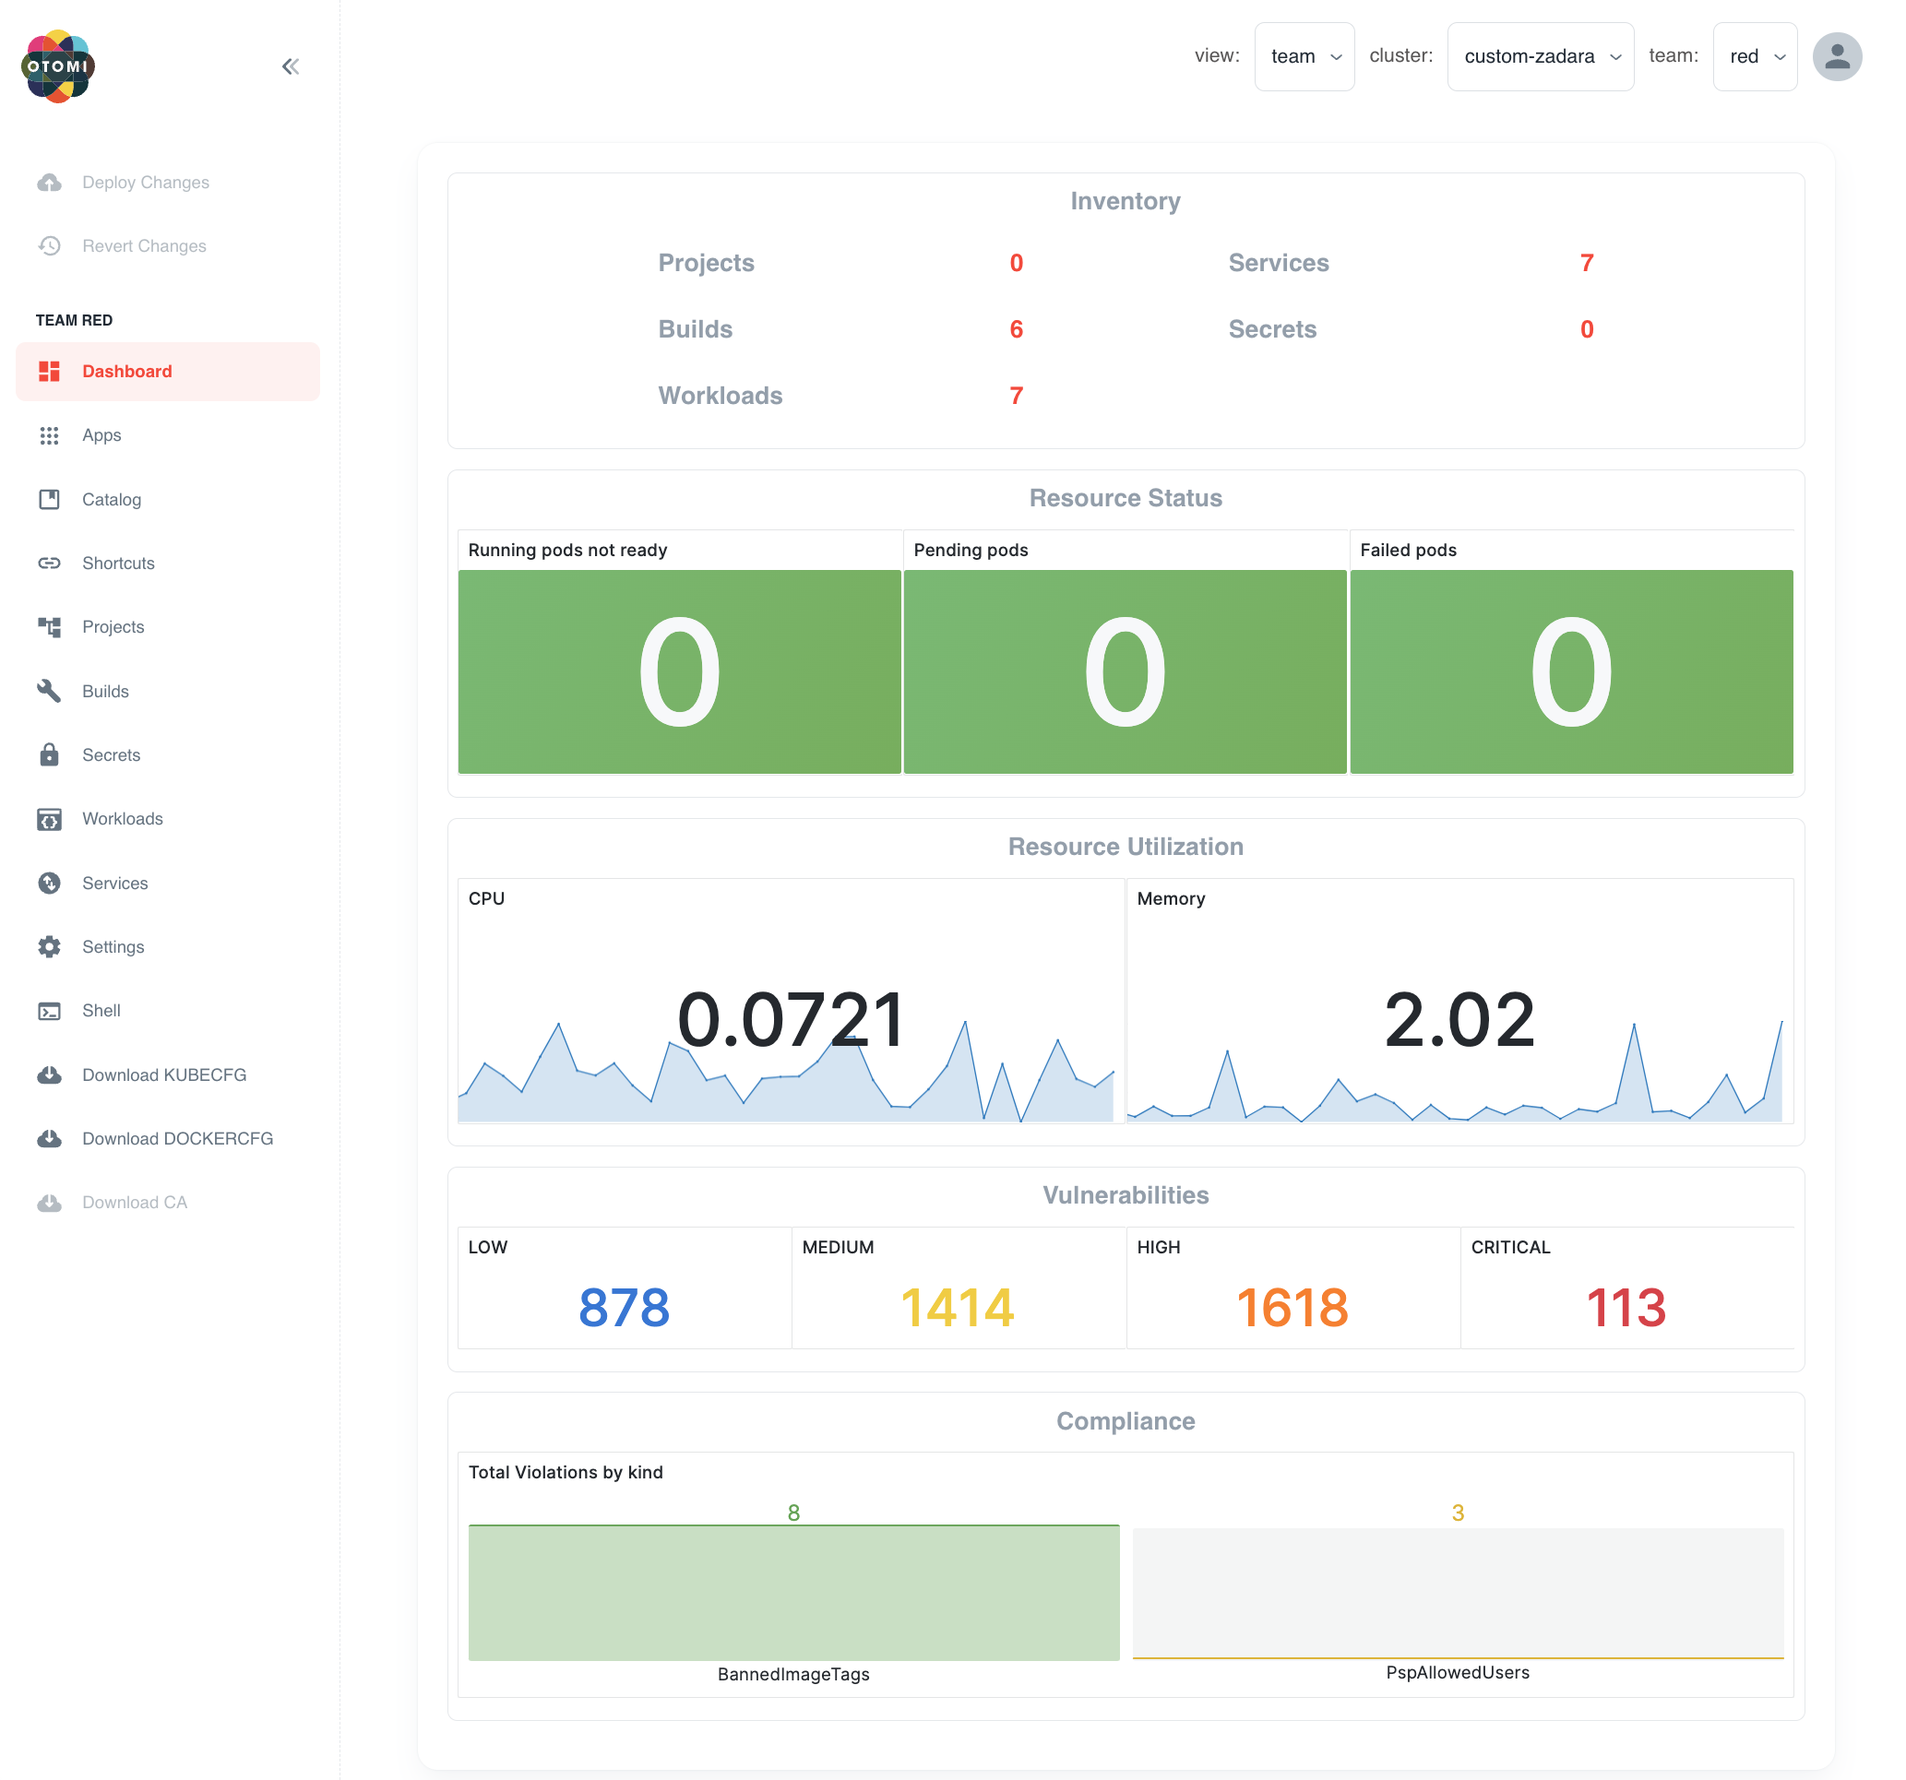
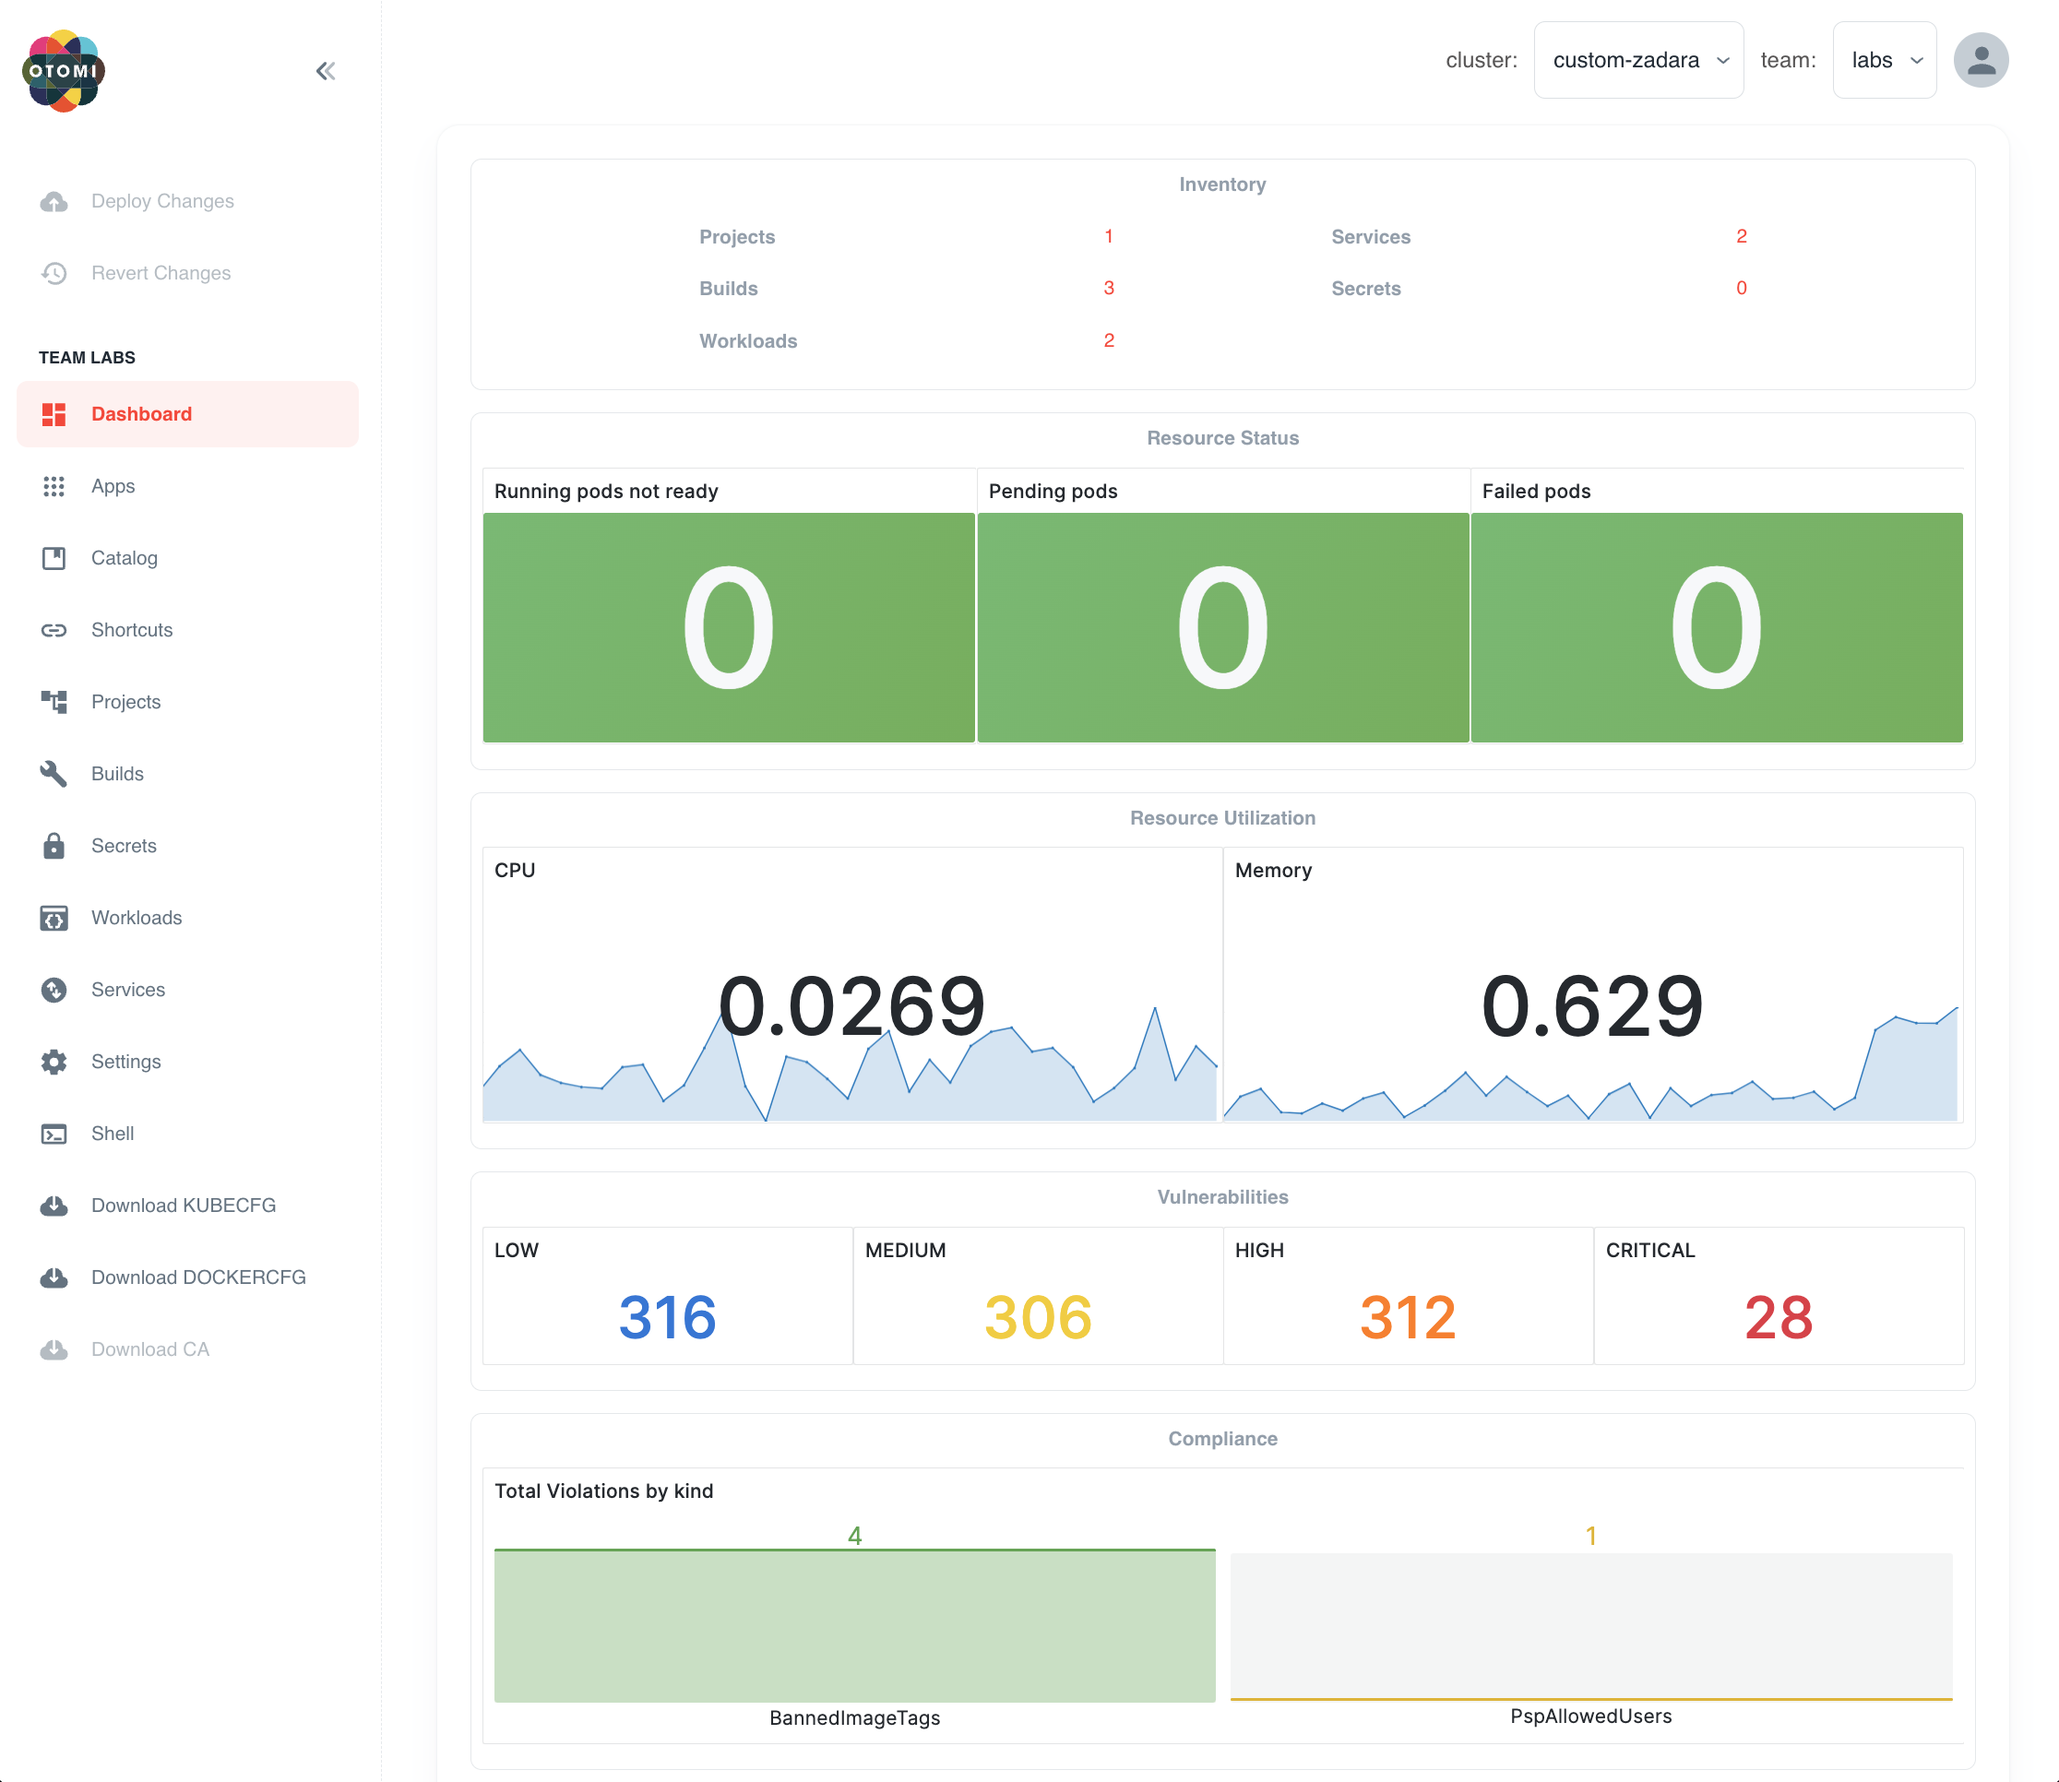
fix: update lab order

diff --git a/src/pages/index.tsx b/src/pages/index.tsx
@@ -35,9 +35,9 @@ function Home() {
                 className={styles.heroLogo}
                 src={useBaseUrl("img/otomi-logo.svg")}
               />
-              Self hosted PaaS for Kubernetes
+              Self hosted DevOps PaaS for Kubernetes
             </h1>
-            <h2 className={styles.heroProjectSubLine}>A paved road for developers from code to production</h2>
+            <h2 className={styles.heroProjectSubLine}>A paved road for DevOps teams from code to production</h2>
             <div className={styles.indexCtas}>
               <Link
                 className={styles.indexCtasGetStartedButton}
@@ -59,7 +59,7 @@ function Home() {
         </div>
         <div className={clsx(styles.announcement, styles.announcementBanner)}>
           <div className={styles.announcementInner}>
-            <h1>DEMO</h1> <h4>Use Otomi as a Kubernetes self servive portal for developer</h4>
+            <h1>DEMO</h1> <h4>Use Otomi as a self servive portal for DevOps teams when using Kubernetes</h4>
           </div>
         </div>
         <div

diff --git a/sidebar-docs.js b/sidebar-docs.js
@@ -144,13 +144,13 @@ module.exports = {
           "for-devs/get-started/lab-15",
           "for-devs/get-started/lab-7",
           "for-devs/get-started/lab-17",
-          "for-devs/get-started/lab-19",
           "for-devs/get-started/lab-20",
           "for-devs/get-started/lab-21",
           "for-devs/get-started/lab-22",
           "for-devs/get-started/lab-30",
           "for-devs/get-started/lab-31",
           "for-devs/get-started/lab-23",
+          "for-devs/get-started/lab-19",
           "for-devs/get-started/lab-27",
           "for-devs/get-started/lab-28",
         ],

diff --git a/docs/for-devs/get-started/overview.md b/docs/for-devs/get-started/overview.md
@@ -47,8 +47,6 @@ Welcome to Otomi! If you are going to use Otomi, these getting started labs are 
 
 ### [Publicly expose a service](lab-18)
 
-### [Configuring network policies](lab-19)
-
 ---
 
 **Secure workloads**
@@ -78,6 +76,8 @@ Welcome to Otomi! If you are going to use Otomi, these getting started labs are 
 ---
 
 **Advanced Labs**
+
+### [Configuring network policies](lab-19)
 
 ### [Tracing with OpenTelemetry](lab-27)
 

diff --git a/docs/for-ops/console/dashboard.md b/docs/for-ops/console/dashboard.md
@@ -1,10 +1,10 @@
 ---
 slug: dashboard
-title: Team Dashboard
+title: Platform Dashboard
 sidebar_label: Dashboard
 ---
 
-The team dashboard gives a global overview of information most relevant to the team.
+The platform dashboard gives a global overview of information most relevant to the team. In the top bar, select the View: `platform`.
 
 ## Prerequisites
 
